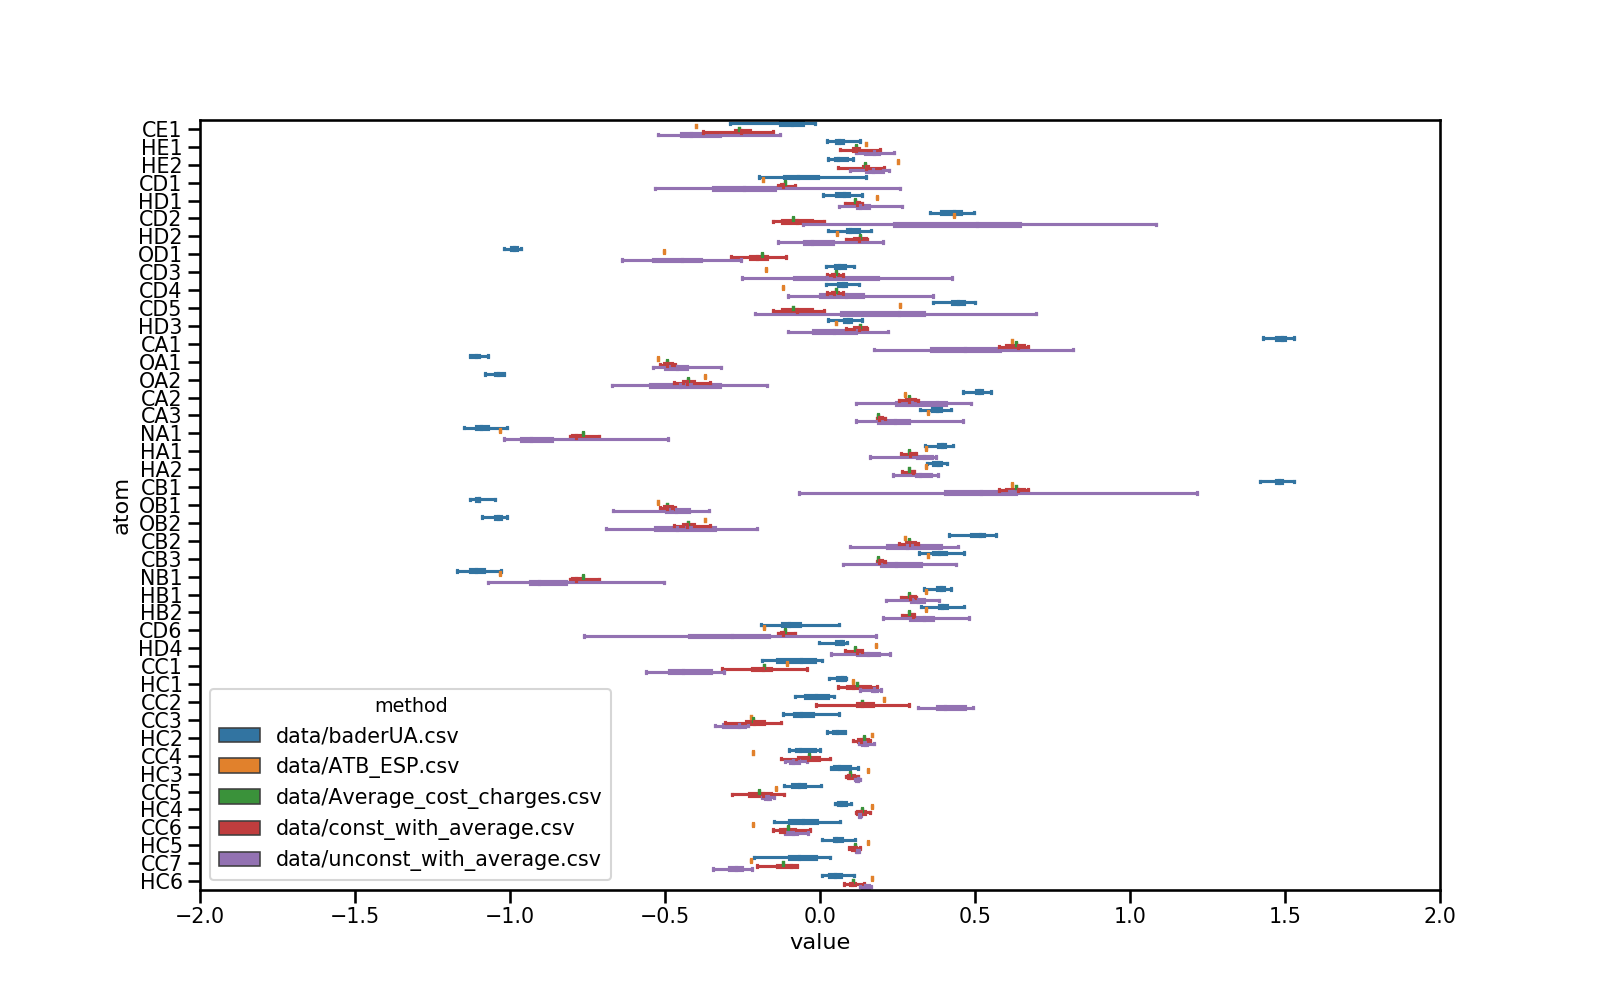
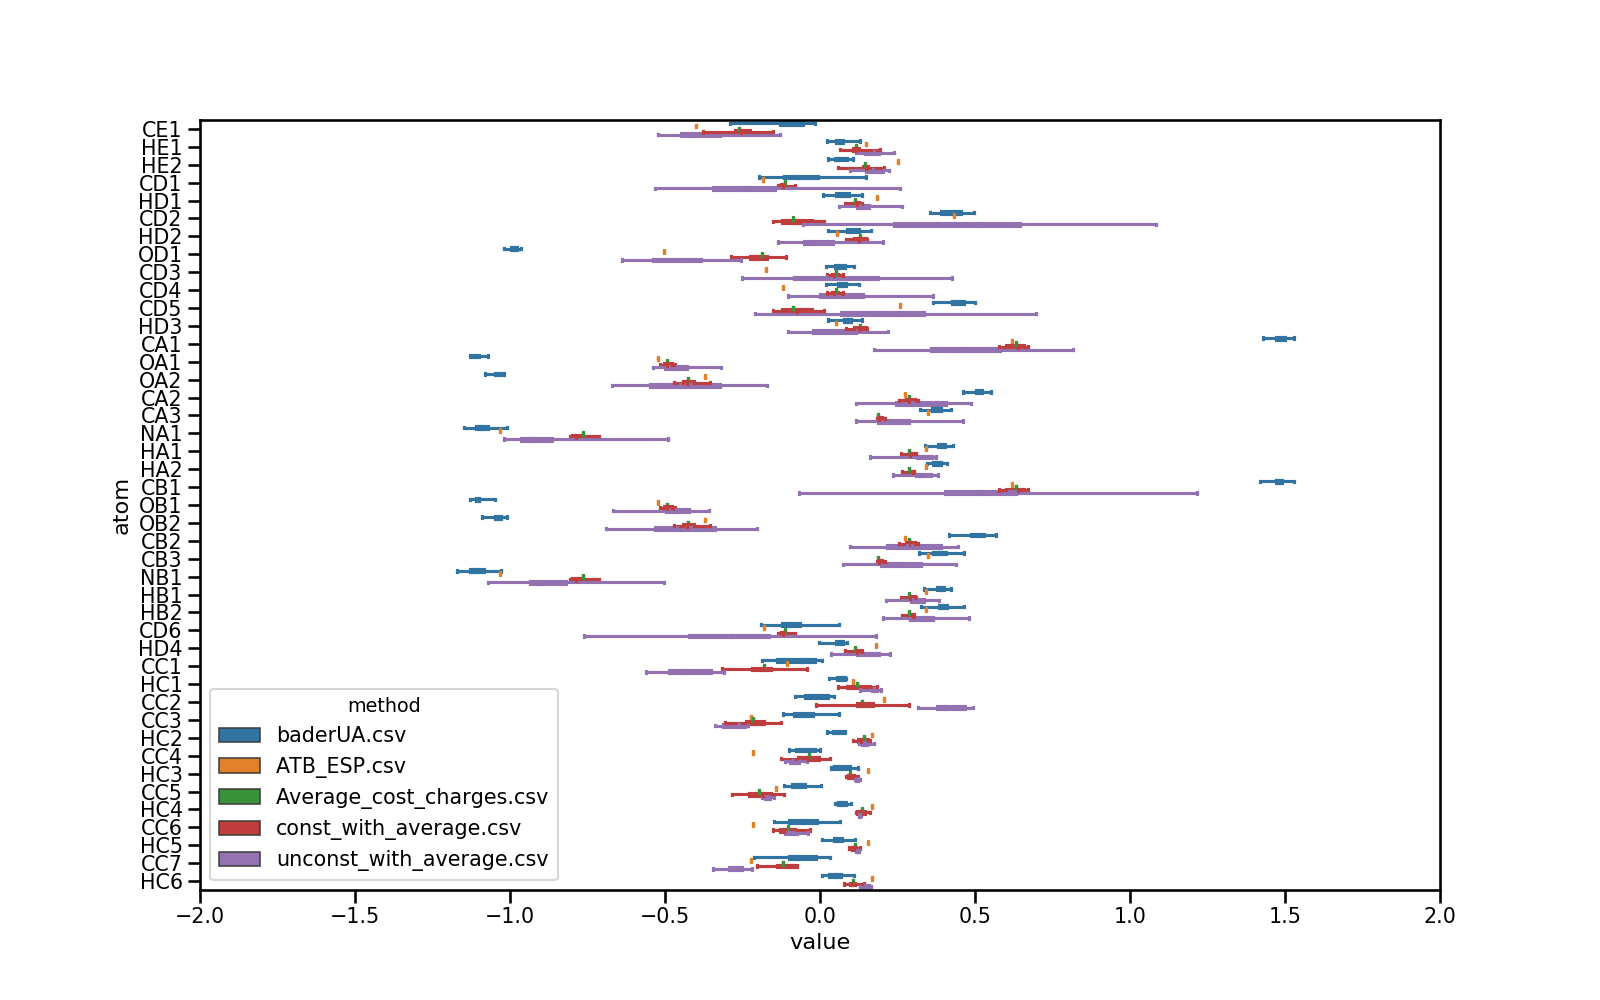
add folder structure, bader comparison

Changed region(s): [[0.1562, 0.682, 0.375, 0.868]]

diff --git a/bader_plot.py b/bader_plot.py
@@ -1,0 +1,74 @@
+"""Plot point charge csv tables.
+Copyright 2019 Simulation Lab
+University of Freiburg
+Author: Lukas Elflein <elfleinl@cs.uni-freiburg.de>
+"""
+
+import pandas as pd
+import matplotlib.pyplot as plt
+import seaborn as sns
+
+
+def default_style(func):
+   """A decorator for setting global plotting styling options."""
+   def wrapper(*args, **kwargs):
+      fig = plt.figure(figsize=(16,10))
+      sns.set_context("talk", font_scale=0.9)
+      plt.xlim(-2, 2)
+      plt.tick_params(grid_alpha=0.2)
+      func(*args, **kwargs)
+      plt.clf()
+   return wrapper
+
+def make_edgecolor(ax, color=None):
+   """Make boxes transparent with colored edges & whiskers"""
+   for i,artist in enumerate(ax.artists):
+      # Set the linecolor on the artist to the facecolor, and set the facecolor to None
+      col = artist.get_facecolor()
+      if color is not None:
+         col = color
+      artist.set_edgecolor(col)
+      artist.set_facecolor('None')
+
+      # Each box has 6 associated Line2D objects (to make the whiskers, fliers, etc.)
+      # Loop over them here, and use the same colour as above
+      for j in range(i*6,i*6+6):
+         line = ax.lines[j]
+         line.set_color(col)
+         line.set_mfc(col)
+         line.set_mec(col)
+
+
+@default_style
+def boxplot(df):
+   bp = sns.boxplot(x='value', y='atom', hue='method', data=df, whis=100)#, hue='variable')
+   ax = bp.axes
+   make_edgecolor(ax)
+   bp.figure.savefig('img/bader_box.png')
+
+
+def read(path):
+   df = pd.read_csv(path)
+   for c in df.columns:
+      if 'Mean' in c:
+         df = df.drop(c, axis=1)
+   df = pd.melt(df, id_vars=['atom', 'resid'])
+   df['method']=path.split('/')[-1]
+   return df
+
+
+def main():
+   print('Reading ...')
+
+   ua_df = read('data/baderUA.csv')
+   aa_df = read('data/baderAA.csv')
+
+   df = aa_df.append(ua_df)
+
+   print('Plotting ...')
+   boxplot(df)
+
+   print('Done.')
+
+if __name__ == '__main__':
+   main()

diff --git a/plot_comparison.py b/plot_comparison.py
@@ -70,7 +70,7 @@ def read(path):
       if 'Mean' in c:
          df = df.drop(c, axis=1)
    df = pd.melt(df, id_vars=['atom', 'resid'])
-   df['method']=path
+   df['method']=path.split('/')[-1]
    return df
 
 
